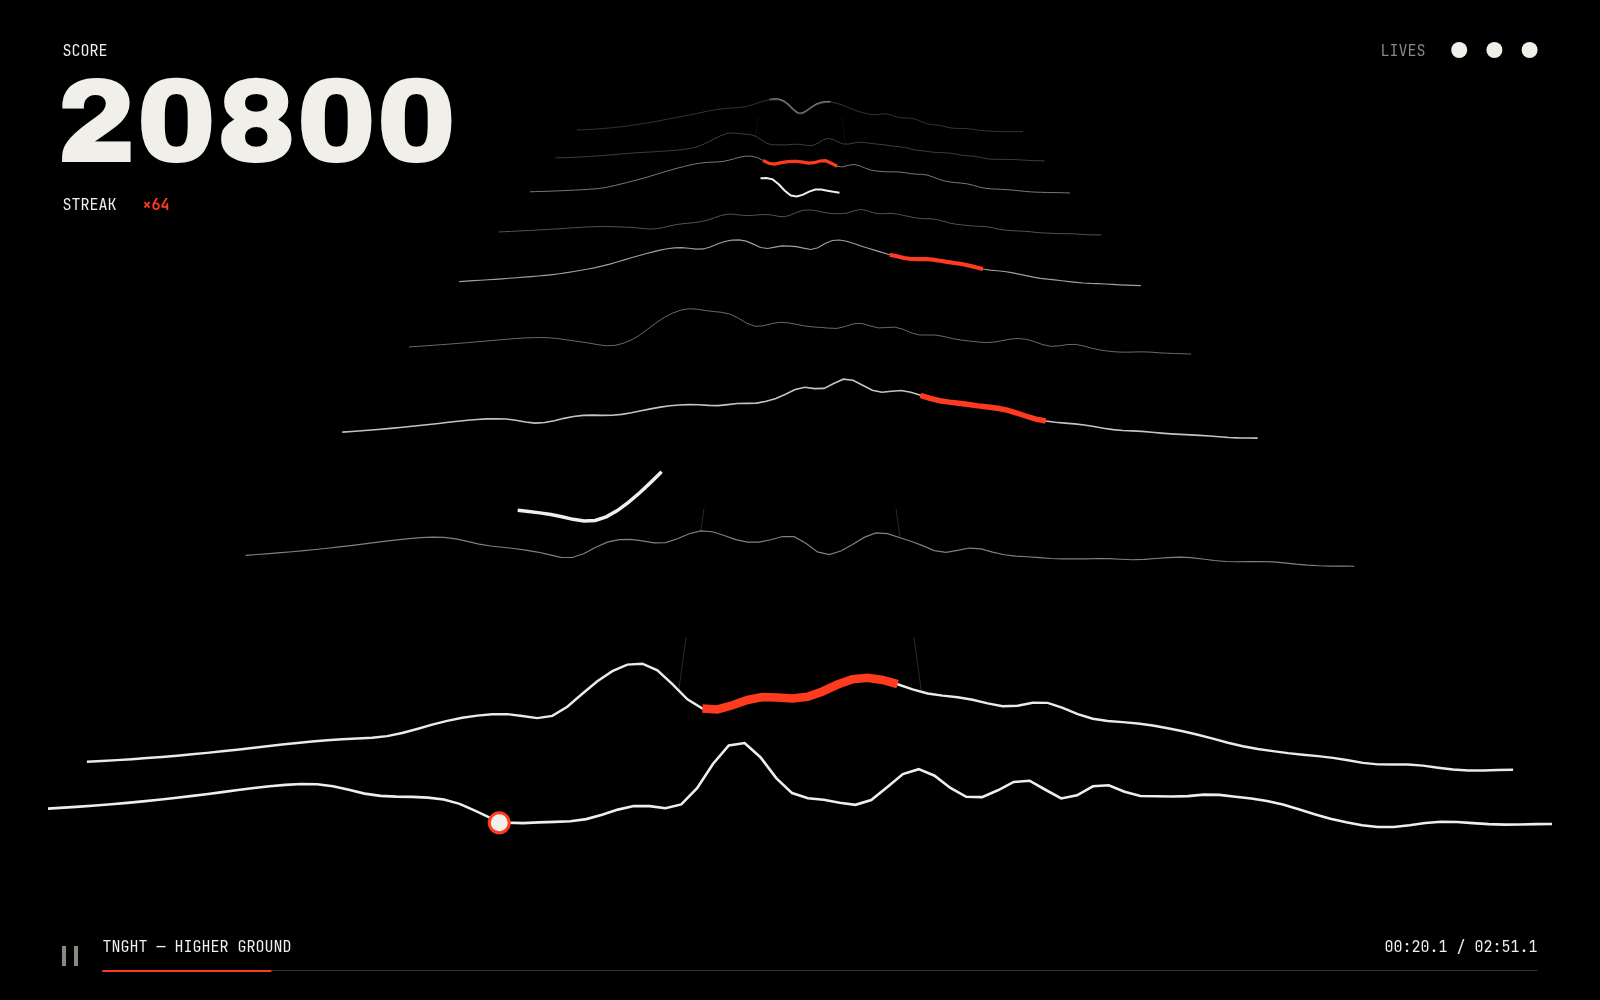
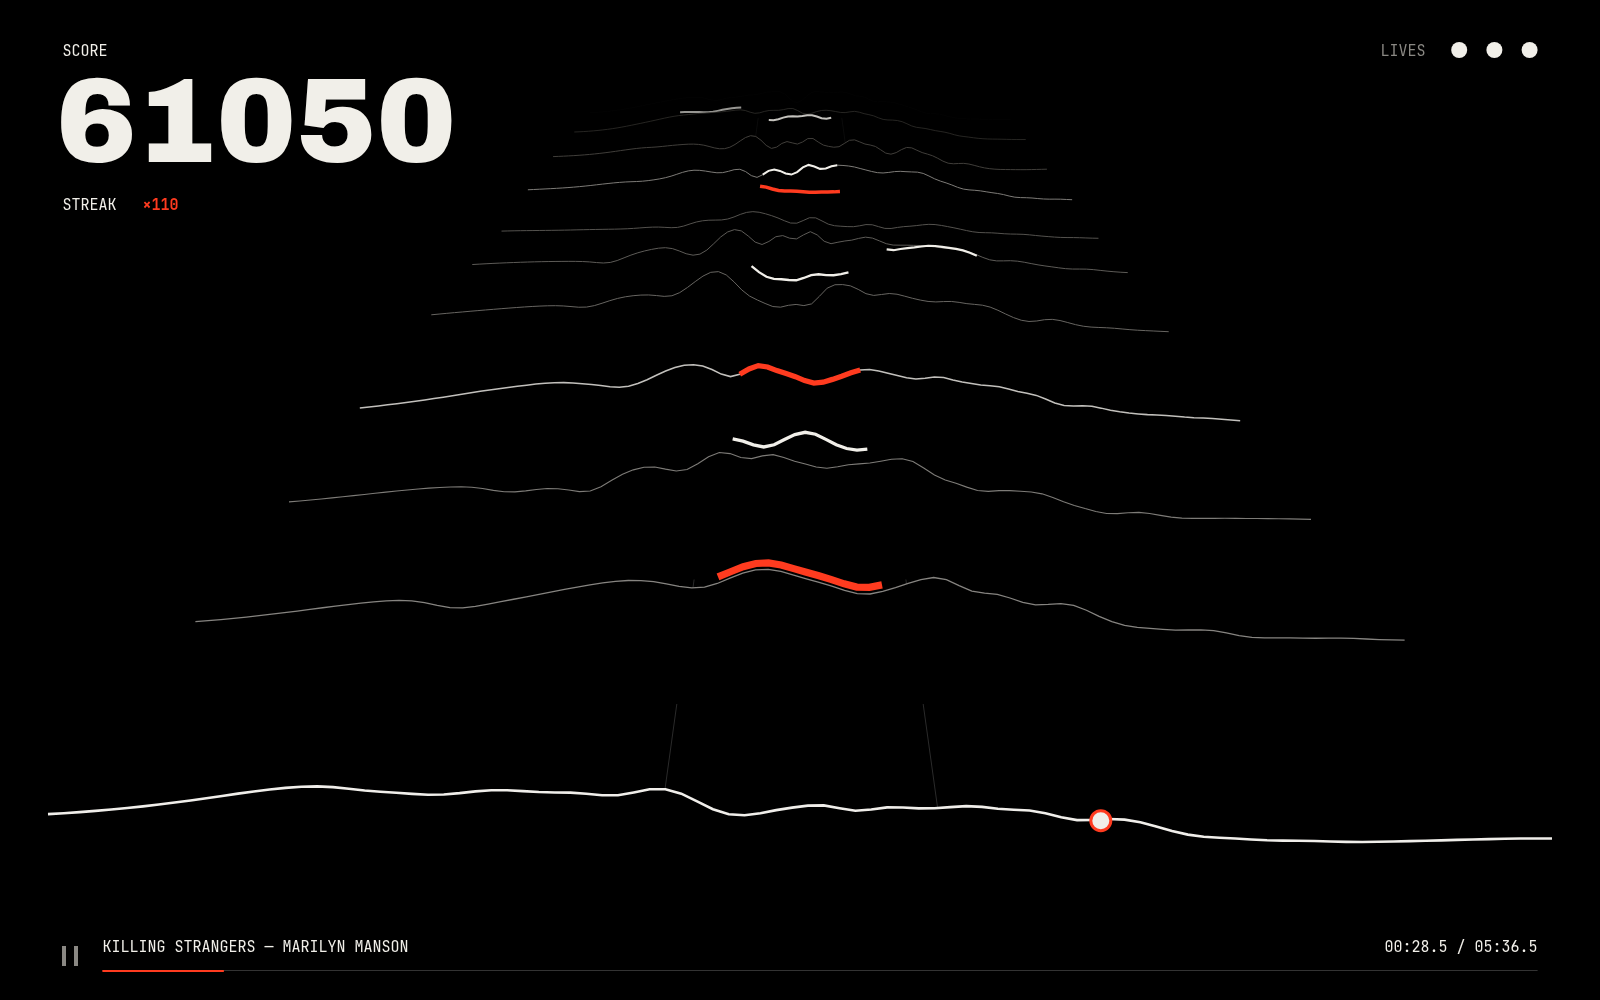
Screenshot a bot ride on Killing Strangers; document ?bot in the README

diff --git a/README.md b/README.md
@@ -1,12 +1,12 @@
 # waves
 
-![A ride: perspective ridges of the song's spectrum, white pickups and a red block in the lanes, score and lives on top](docs/screenshot.png)
+![A ride: perspective ridges of the song's spectrum, white pickups and red blocks in the lanes, score and lives on top](docs/screenshot.png)
 
 Drop in a song and ride it: an Audiosurf-like game in the browser. The track is built from the music itself: ridges are its spectrum and arrive on the beat, choruses and drops speed you up, kicks shake the field. Every hit lands in a lane by its band (bass, mids, highs): catch the white ones, dodge the red ones. Three red hits and the song stops.
 
 Play at [dragunovartem99.github.io/waves](https://dragunovartem99.github.io/waves). Steer with ← → or by tapping either half of the screen; Space or Esc pauses. The song never leaves your browser.
 
-Add `?debug` to the URL for the analysis view: loudness and detected onsets over the whole song.
+Add `?debug` to the URL for the analysis view: loudness and detected onsets over the whole song. Add `?bot` and an autopilot rides for you, catching every pickup, for recording demos.
 
 ## Development
 
@@ -15,6 +15,7 @@ Requires Node 24+.
 ```sh
 npm install
 npm run dev          # local dev server
+npm run dev:bot      # dev server opened with ?bot
 npm run build        # static build into dist/
 npm run preview      # serve the build
 ```
